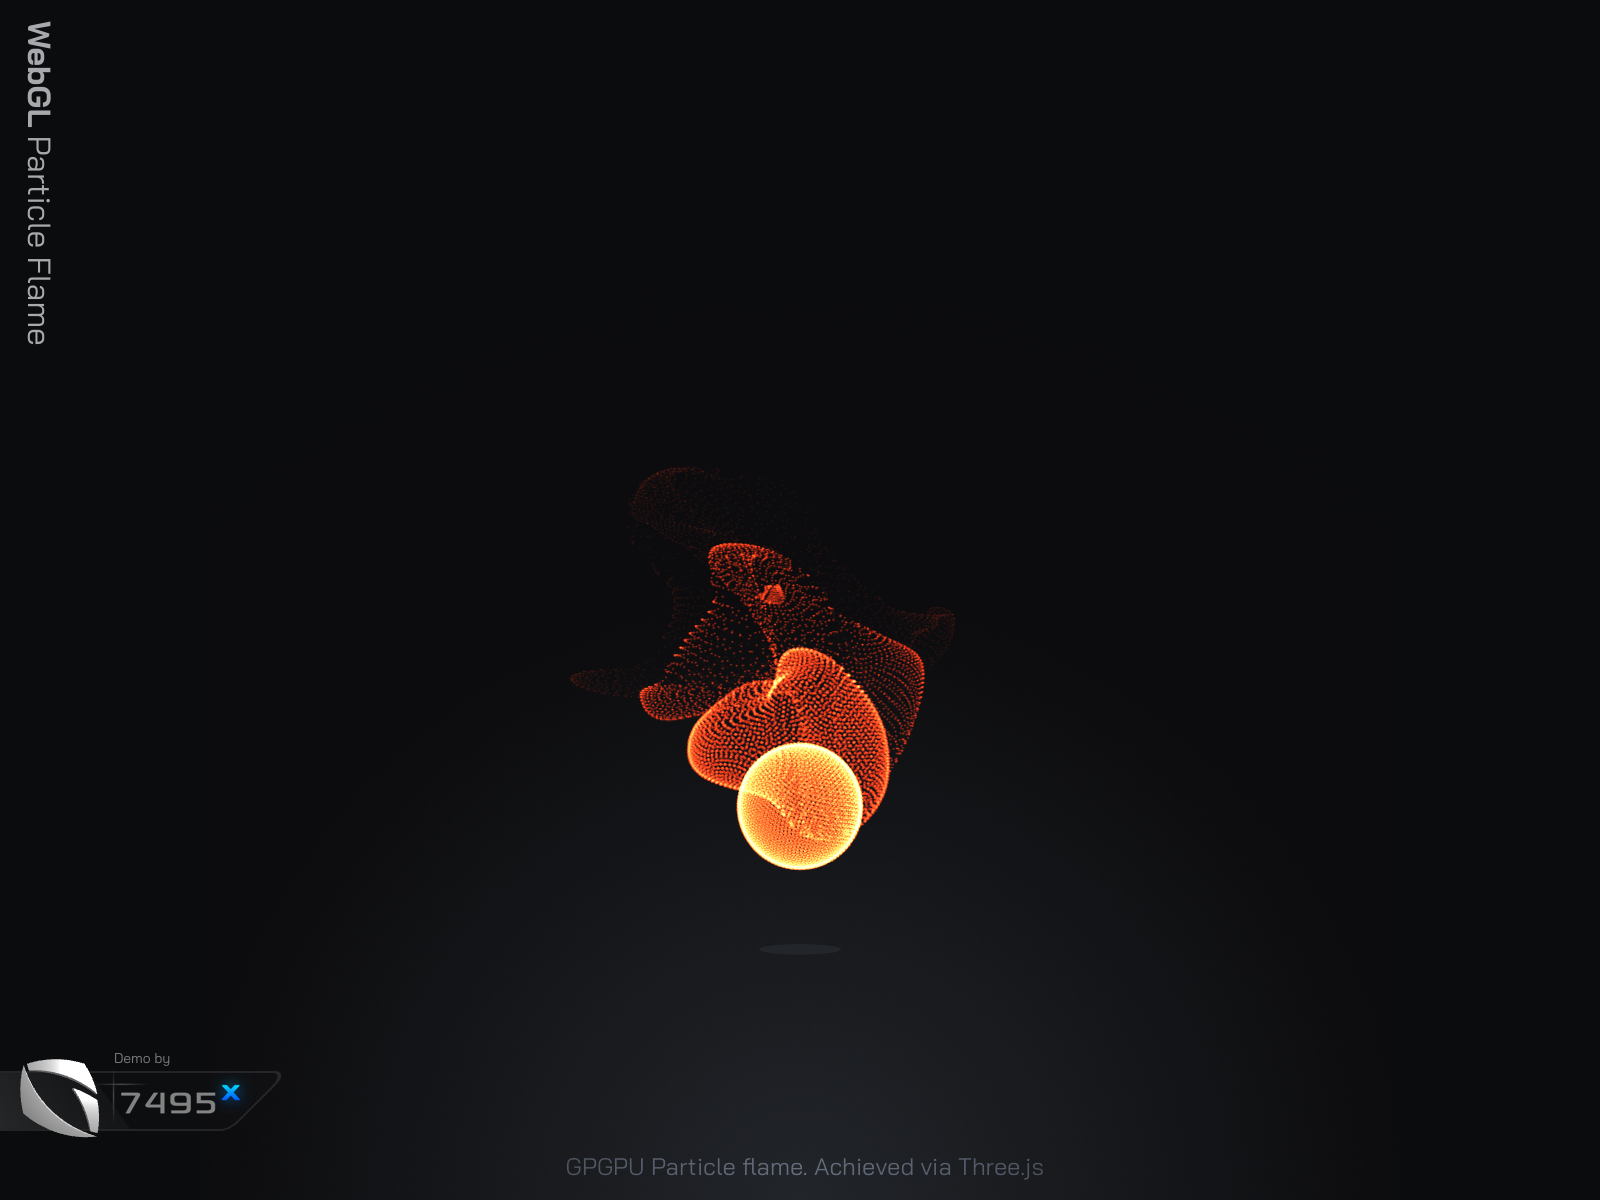
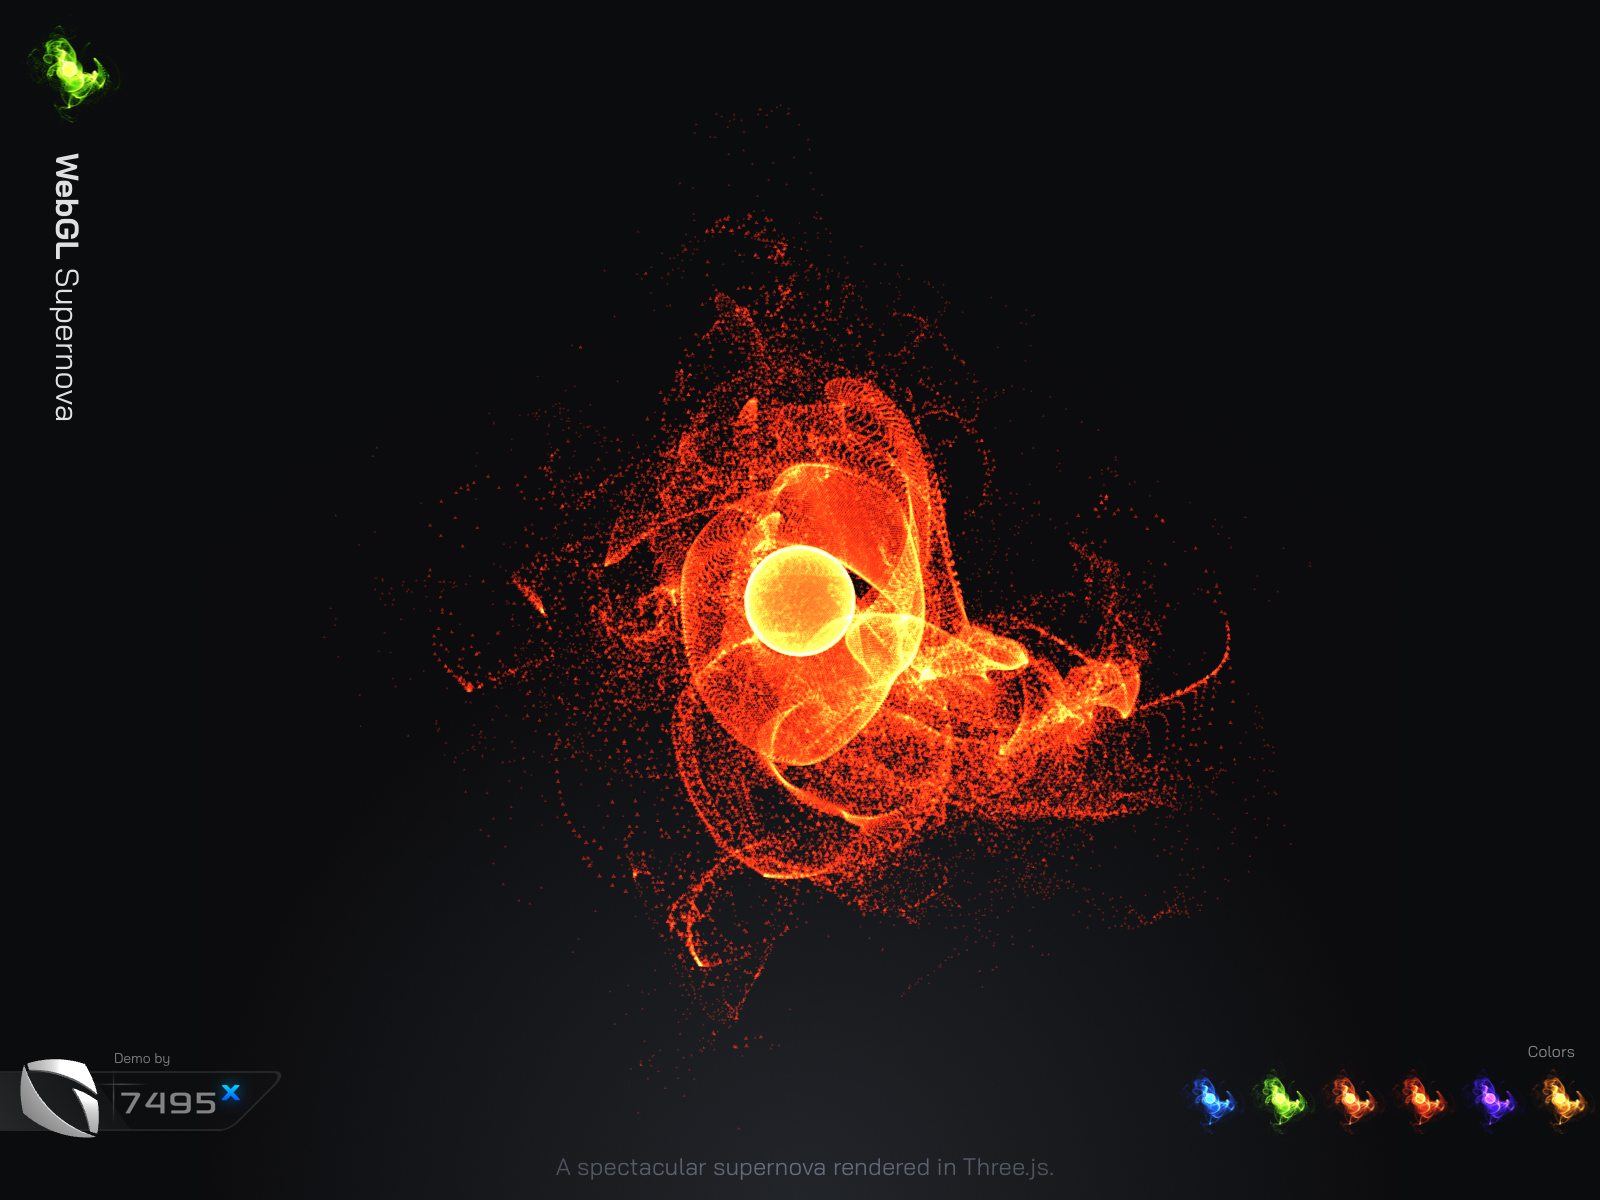
Added samples of work

diff --git a/index.html b/index.html
@@ -55,10 +55,249 @@
 			<div class="img-section">
 				<img class="zoom" src="imgs/1/1.png">
 				<img src="imgs/1/2.png">
-				<img src="imgs/1/2.png">
+				<img src="imgs/1/3.png">
+				<img src="imgs/1/4.png">
+			</div>
+			<div class="content">
+				<h1><b>WebGL</b> Supernova</h1>
+				<div class="t-light">Lorem ipsum dolor sit amet, consectetur adipisicing elit.</div>
+				<div style="height: 40px"></div>
+				<div class="h7 t-light">[Individual Project]</div>
+			</div>
+		</div>
+		<div class="slide-controls">
+			<div class="h3 fa fa-chevron-left" onclick="prevPage()"></div>
+			<div class="h3 fa fa-chevron-right" onclick="nextPage()"></div>
+		</div>
+		<div class="description">
+			<h5><b>Description</b></h5>
+			<div class="t-light">Lorem ipsum dolor sit amet, consectetur adipisicing elit, sed do eiusmod
+			tempor incididunt ut labore et dolore magna aliqua. Ut enim ad minim veniam,
+			quis nostrud exercitation ullamco laboris nisi ut aliquip ex ea commodo
+			consequat. Duis aute irure dolor in reprehenderit in voluptate velit esse
+			cillum dolore eu fugiat nulla pariatur. Excepteur sint occaecat cupidatat non
+			proident, sunt in culpa qui officia deserunt mollit anim id est laborum.</div>
+			<div class="t-light">Lorem ipsum dolor sit amet, consectetur adipisicing elit, sed do eiusmod
+			tempor incididunt ut labore et dolore magna aliqua. Ut enim ad minim veniam,
+			quis nostrud exercitation ullamco laboris nisi ut aliquip ex ea commodo
+			consequat. Duis aute irure dolor in reprehenderit in voluptate velit esse
+			cillum dolore eu fugiat nulla pariatur. Excepteur sint occaecat cupidatat non
+			proident, sunt in culpa qui officia deserunt mollit anim id est laborum.</div>
+			<div class="t-light">Lorem ipsum dolor sit amet, consectetur adipisicing elit, sed do eiusmod
+			tempor incididunt ut labore et dolore magna aliqua. Ut enim ad minim veniam,
+			quis nostrud exercitation ullamco laboris nisi ut aliquip ex ea commodo
+			consequat. Duis aute irure dolor in reprehenderit in voluptate velit esse
+			cillum dolore eu fugiat nulla pariatur. Excepteur sint occaecat cupidatat non
+			proident, sunt in culpa qui officia deserunt mollit anim id est laborum.</div>
+		</div>
+	</div>
+	<div id="page3" class="page">
+		<div class="flex">
+			<div class="img-section">
+				<img class="zoom" src="imgs/2/1.png">
+				<img src="imgs/2/2.png">
+				<img src="imgs/2/3.png">
+			</div>
+			<div class="content">
+				<h1><b>WebGL</b> Proto Star</h1>
+				<div class="t-light">Lorem ipsum dolor sit amet, consectetur adipisicing elit.</div>
+				<div style="height: 40px"></div>
+				<div class="h7 t-light">[Individual Project]</div>
+			</div>
+		</div>
+		<div class="slide-controls">
+			<div class="h3 fa fa-chevron-left" onclick="prevPage()"></div>
+			<div class="h3 fa fa-chevron-right" onclick="nextPage()"></div>
+		</div>
+		<div class="description">
+			<h5><b>Description</b></h5>
+			<div class="t-light">Lorem ipsum dolor sit amet, consectetur adipisicing elit, sed do eiusmod
+			tempor incididunt ut labore et dolore magna aliqua. Ut enim ad minim veniam,
+			quis nostrud exercitation ullamco laboris nisi ut aliquip ex ea commodo
+			consequat. Duis aute irure dolor in reprehenderit in voluptate velit esse
+			cillum dolore eu fugiat nulla pariatur. Excepteur sint occaecat cupidatat non
+			proident, sunt in culpa qui officia deserunt mollit anim id est laborum.</div>
+			<div class="t-light">Lorem ipsum dolor sit amet, consectetur adipisicing elit, sed do eiusmod
+			tempor incididunt ut labore et dolore magna aliqua. Ut enim ad minim veniam,
+			quis nostrud exercitation ullamco laboris nisi ut aliquip ex ea commodo
+			consequat. Duis aute irure dolor in reprehenderit in voluptate velit esse
+			cillum dolore eu fugiat nulla pariatur. Excepteur sint occaecat cupidatat non
+			proident, sunt in culpa qui officia deserunt mollit anim id est laborum.</div>
+			<div class="t-light">Lorem ipsum dolor sit amet, consectetur adipisicing elit, sed do eiusmod
+			tempor incididunt ut labore et dolore magna aliqua. Ut enim ad minim veniam,
+			quis nostrud exercitation ullamco laboris nisi ut aliquip ex ea commodo
+			consequat. Duis aute irure dolor in reprehenderit in voluptate velit esse
+			cillum dolore eu fugiat nulla pariatur. Excepteur sint occaecat cupidatat non
+			proident, sunt in culpa qui officia deserunt mollit anim id est laborum.</div>
+		</div>
+	</div>
+	<div id="page4" class="page">
+		<div class="flex">
+			<div class="img-section">
+				<img class="zoom" src="imgs/3/1.png">
+				<img src="imgs/3/2.png">
 			</div>
 			<div class="content">
 				<h1><b>WebGL</b> Particle Flame</h1>
+				<div class="t-light">Lorem ipsum dolor sit amet, consectetur adipisicing elit.</div>
+				<div style="height: 40px"></div>
+				<div class="h7 t-light">[Individual Project]</div>
+			</div>
+		</div>
+		<div class="slide-controls">
+			<div class="h3 fa fa-chevron-left" onclick="prevPage()"></div>
+			<div class="h3 fa fa-chevron-right" onclick="nextPage()"></div>
+		</div>
+		<div class="description">
+			<h5><b>Description</b></h5>
+			<div class="t-light">Lorem ipsum dolor sit amet, consectetur adipisicing elit, sed do eiusmod
+			tempor incididunt ut labore et dolore magna aliqua. Ut enim ad minim veniam,
+			quis nostrud exercitation ullamco laboris nisi ut aliquip ex ea commodo
+			consequat. Duis aute irure dolor in reprehenderit in voluptate velit esse
+			cillum dolore eu fugiat nulla pariatur. Excepteur sint occaecat cupidatat non
+			proident, sunt in culpa qui officia deserunt mollit anim id est laborum.</div>
+			<div class="t-light">Lorem ipsum dolor sit amet, consectetur adipisicing elit, sed do eiusmod
+			tempor incididunt ut labore et dolore magna aliqua. Ut enim ad minim veniam,
+			quis nostrud exercitation ullamco laboris nisi ut aliquip ex ea commodo
+			consequat. Duis aute irure dolor in reprehenderit in voluptate velit esse
+			cillum dolore eu fugiat nulla pariatur. Excepteur sint occaecat cupidatat non
+			proident, sunt in culpa qui officia deserunt mollit anim id est laborum.</div>
+			<div class="t-light">Lorem ipsum dolor sit amet, consectetur adipisicing elit, sed do eiusmod
+			tempor incididunt ut labore et dolore magna aliqua. Ut enim ad minim veniam,
+			quis nostrud exercitation ullamco laboris nisi ut aliquip ex ea commodo
+			consequat. Duis aute irure dolor in reprehenderit in voluptate velit esse
+			cillum dolore eu fugiat nulla pariatur. Excepteur sint occaecat cupidatat non
+			proident, sunt in culpa qui officia deserunt mollit anim id est laborum.</div>
+		</div>
+	</div>
+	<div id="page5" class="page">
+		<div class="flex">
+			<div class="img-section">
+				<img class="zoom" src="imgs/4/1.jpg">
+				<img src="imgs/4/2.jpg">
+				<img src="imgs/4/3.jpg">
+				<img src="imgs/4/4.jpg">
+			</div>
+			<div class="content">
+				<h1><b>Unity</b> Procedural Terrain</h1>
+				<div class="t-light">Lorem ipsum dolor sit amet, consectetur adipisicing elit.</div>
+				<div style="height: 40px"></div>
+				<div class="h7 t-light">[Individual Project]</div>
+			</div>
+		</div>
+		<div class="slide-controls">
+			<div class="h3 fa fa-chevron-left" onclick="prevPage()"></div>
+			<div class="h3 fa fa-chevron-right" onclick="nextPage()"></div>
+		</div>
+		<div class="description">
+			<h5><b>Description</b></h5>
+			<div class="t-light">Lorem ipsum dolor sit amet, consectetur adipisicing elit, sed do eiusmod
+			tempor incididunt ut labore et dolore magna aliqua. Ut enim ad minim veniam,
+			quis nostrud exercitation ullamco laboris nisi ut aliquip ex ea commodo
+			consequat. Duis aute irure dolor in reprehenderit in voluptate velit esse
+			cillum dolore eu fugiat nulla pariatur. Excepteur sint occaecat cupidatat non
+			proident, sunt in culpa qui officia deserunt mollit anim id est laborum.</div>
+			<div class="t-light">Lorem ipsum dolor sit amet, consectetur adipisicing elit, sed do eiusmod
+			tempor incididunt ut labore et dolore magna aliqua. Ut enim ad minim veniam,
+			quis nostrud exercitation ullamco laboris nisi ut aliquip ex ea commodo
+			consequat. Duis aute irure dolor in reprehenderit in voluptate velit esse
+			cillum dolore eu fugiat nulla pariatur. Excepteur sint occaecat cupidatat non
+			proident, sunt in culpa qui officia deserunt mollit anim id est laborum.</div>
+			<div class="t-light">Lorem ipsum dolor sit amet, consectetur adipisicing elit, sed do eiusmod
+			tempor incididunt ut labore et dolore magna aliqua. Ut enim ad minim veniam,
+			quis nostrud exercitation ullamco laboris nisi ut aliquip ex ea commodo
+			consequat. Duis aute irure dolor in reprehenderit in voluptate velit esse
+			cillum dolore eu fugiat nulla pariatur. Excepteur sint occaecat cupidatat non
+			proident, sunt in culpa qui officia deserunt mollit anim id est laborum.</div>
+		</div>
+	</div>
+	<div id="page6" class="page">
+		<div class="flex">
+			<div class="img-section">
+				<img class="zoom" src="imgs/5/1.png">
+			</div>
+			<div class="content">
+				<h1><b>WebGL</b> Image Transition</h1>
+				<div class="t-light">Lorem ipsum dolor sit amet, consectetur adipisicing elit.</div>
+				<div style="height: 40px"></div>
+				<div class="h7 t-light">[Individual Project]</div>
+			</div>
+		</div>
+		<div class="slide-controls">
+			<div class="h3 fa fa-chevron-left" onclick="prevPage()"></div>
+			<div class="h3 fa fa-chevron-right" onclick="nextPage()"></div>
+		</div>
+		<div class="description">
+			<h5><b>Description</b></h5>
+			<div class="t-light">Lorem ipsum dolor sit amet, consectetur adipisicing elit, sed do eiusmod
+			tempor incididunt ut labore et dolore magna aliqua. Ut enim ad minim veniam,
+			quis nostrud exercitation ullamco laboris nisi ut aliquip ex ea commodo
+			consequat. Duis aute irure dolor in reprehenderit in voluptate velit esse
+			cillum dolore eu fugiat nulla pariatur. Excepteur sint occaecat cupidatat non
+			proident, sunt in culpa qui officia deserunt mollit anim id est laborum.</div>
+			<div class="t-light">Lorem ipsum dolor sit amet, consectetur adipisicing elit, sed do eiusmod
+			tempor incididunt ut labore et dolore magna aliqua. Ut enim ad minim veniam,
+			quis nostrud exercitation ullamco laboris nisi ut aliquip ex ea commodo
+			consequat. Duis aute irure dolor in reprehenderit in voluptate velit esse
+			cillum dolore eu fugiat nulla pariatur. Excepteur sint occaecat cupidatat non
+			proident, sunt in culpa qui officia deserunt mollit anim id est laborum.</div>
+			<div class="t-light">Lorem ipsum dolor sit amet, consectetur adipisicing elit, sed do eiusmod
+			tempor incididunt ut labore et dolore magna aliqua. Ut enim ad minim veniam,
+			quis nostrud exercitation ullamco laboris nisi ut aliquip ex ea commodo
+			consequat. Duis aute irure dolor in reprehenderit in voluptate velit esse
+			cillum dolore eu fugiat nulla pariatur. Excepteur sint occaecat cupidatat non
+			proident, sunt in culpa qui officia deserunt mollit anim id est laborum.</div>
+		</div>
+	</div>
+	<div id="page7" class="page">
+		<div class="flex">
+			<div class="img-section">
+				<img class="zoom" src="imgs/6/1.png">
+				<img src="imgs/6/2.png">
+				<img src="imgs/6/3.png">
+			</div>
+			<div class="content">
+				<h1><b>Unity</b> Sea - Game</h1>
+				<div class="t-light">Lorem ipsum dolor sit amet, consectetur adipisicing elit.</div>
+				<div style="height: 40px"></div>
+				<div class="h7 t-light">[Individual Project]</div>
+			</div>
+		</div>
+		<div class="slide-controls">
+			<div class="h3 fa fa-chevron-left" onclick="prevPage()"></div>
+			<div class="h3 fa fa-chevron-right" onclick="nextPage()"></div>
+		</div>
+		<div class="description">
+			<h5><b>Description</b></h5>
+			<div class="t-light">Lorem ipsum dolor sit amet, consectetur adipisicing elit, sed do eiusmod
+			tempor incididunt ut labore et dolore magna aliqua. Ut enim ad minim veniam,
+			quis nostrud exercitation ullamco laboris nisi ut aliquip ex ea commodo
+			consequat. Duis aute irure dolor in reprehenderit in voluptate velit esse
+			cillum dolore eu fugiat nulla pariatur. Excepteur sint occaecat cupidatat non
+			proident, sunt in culpa qui officia deserunt mollit anim id est laborum.</div>
+			<div class="t-light">Lorem ipsum dolor sit amet, consectetur adipisicing elit, sed do eiusmod
+			tempor incididunt ut labore et dolore magna aliqua. Ut enim ad minim veniam,
+			quis nostrud exercitation ullamco laboris nisi ut aliquip ex ea commodo
+			consequat. Duis aute irure dolor in reprehenderit in voluptate velit esse
+			cillum dolore eu fugiat nulla pariatur. Excepteur sint occaecat cupidatat non
+			proident, sunt in culpa qui officia deserunt mollit anim id est laborum.</div>
+			<div class="t-light">Lorem ipsum dolor sit amet, consectetur adipisicing elit, sed do eiusmod
+			tempor incididunt ut labore et dolore magna aliqua. Ut enim ad minim veniam,
+			quis nostrud exercitation ullamco laboris nisi ut aliquip ex ea commodo
+			consequat. Duis aute irure dolor in reprehenderit in voluptate velit esse
+			cillum dolore eu fugiat nulla pariatur. Excepteur sint occaecat cupidatat non
+			proident, sunt in culpa qui officia deserunt mollit anim id est laborum.</div>
+		</div>
+	</div>
+	<div id="page8" class="page">
+		<div class="flex">
+			<div class="img-section">
+				<img class="zoom" src="imgs/7/1.png">
+				<img src="imgs/7/2.png">
+				<img src="imgs/7/3.png">
+			</div>
+			<div class="content">
+				<h1><b>OpenGL</b> Audio Visualizer</h1>
 				<div class="t-light">Lorem ipsum dolor sit amet, consectetur adipisicing elit.</div>
 				<div style="height: 40px"></div>
 				<div class="h7 t-light">[Individual Project]</div>

diff --git a/css/main.css b/css/main.css
@@ -163,17 +163,18 @@ a {
       order: -1;
       width: 100%;
       border-radius: 10px;
-      box-shadow: 0 0 0 1px rgba(255, 255, 255, 0.1), 0 50px 200px -50px rgba(0, 0, 0, 0.75); }
+      box-shadow: 0 0 0 1px rgba(255, 255, 255, 0.05), 0 50px 200px -50px rgba(0, 0, 0, 0.75); }
     .img-section img:not(.zoom) {
       transform: translateX(-10px);
       height: 100px;
       margin: -80px 10px 0;
       border-radius: 5px;
-      box-shadow: 0 0 0 1px rgba(255, 255, 255, 0.1), 0 10px 40px rgba(0, 0, 0, 0.25);
+      box-shadow: 0 0 0 1px rgba(255, 255, 255, 0.05), 0 10px 40px rgba(0, 0, 0, 0.25);
       cursor: pointer; }
 
 .content {
   z-index: 1;
+  position: relative;
   flex: 1;
   padding: 0 50px; }
 

diff --git a/scss/main.scss b/scss/main.scss
@@ -168,7 +168,7 @@ a{
 			width: 100%;
 			border-radius: 10px;
 			box-shadow:
-				0 0 0 1px rgba(white,.1),
+				0 0 0 1px rgba(white,.05),
 				0 50px 200px -50px rgba(black,.75);
 		}
 		&:not(.zoom){
@@ -177,7 +177,7 @@ a{
 			margin: -80px 10px 0;
 			border-radius: 5px;
 			box-shadow:
-				0 0 0 1px rgba(white,.1),
+				0 0 0 1px rgba(white,.05),
 				0 10px 40px rgba(black,.25);
 			cursor: pointer;
 		}
@@ -186,6 +186,7 @@ a{
 
 .content{
 	z-index: 1;
+	position: relative;
 	flex: 1;
 	padding: 0 50px;
 }
